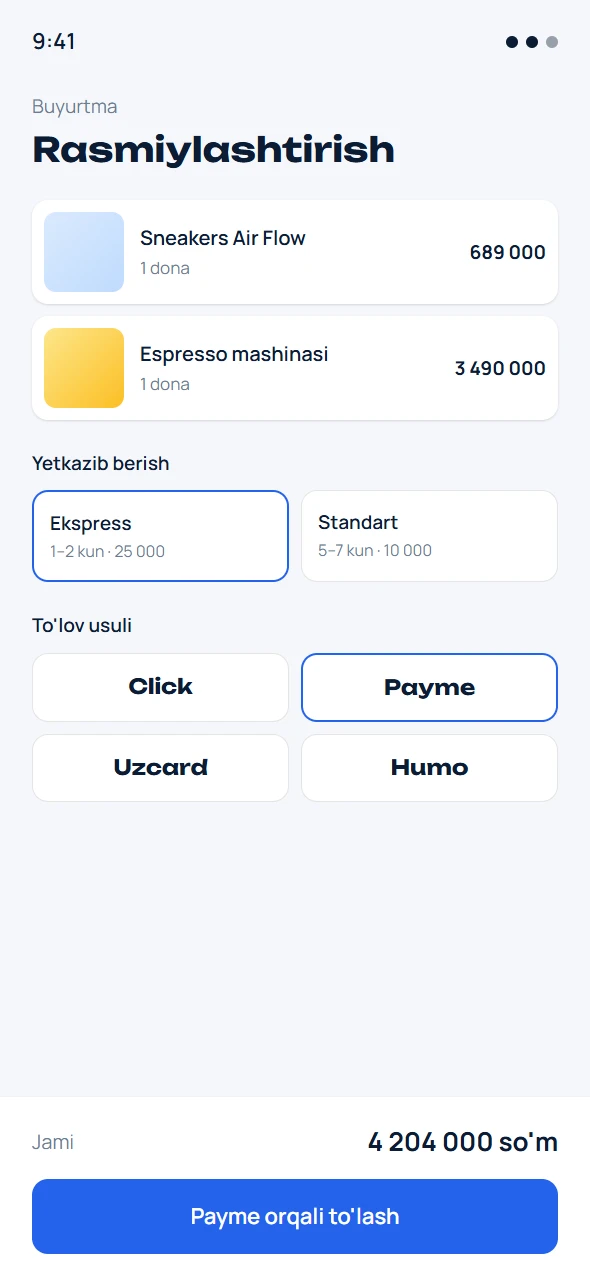
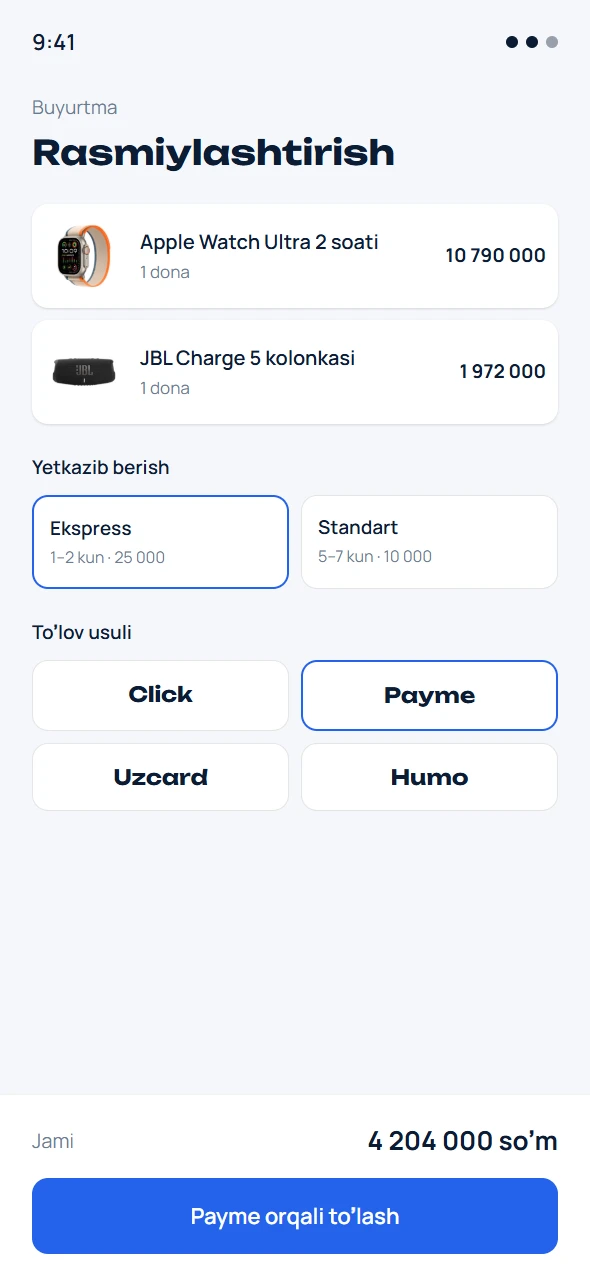
Put real goods on the device screens
The products inside the mock screens were CSS gradients with invented names and
prices. They are now the real thing, taken from the live instance of the
platform, fetch-group.uz, through its public /api/products: six product photos
in public/shop (redrawn to 560px squares on white), with the shop's own names,
categories and prices.

Watches, speakers and headphones on purpose. That shop also sells phones,
laptops and tablets, and those are the very devices these screens are displayed
on — a MacBook selling MacBooks is the "Apple reseller" reading the owner
rejected on 2026-09-07, so the catalogue avoids anything the frame already is.

The rest of the mocks followed: the recent-orders list on the dashboard, the six
rows of the orders table, and the editor, which is now the JBL Charge 5 with its
real specification instead of an espresso machine. Storefront category chips are
the shop's real categories. Both pipelines were re-run afterwards — screens.mjs
for the five captures, render.mjs for the five stills the tiles and the showcase
use — so the 3D devices and the flat renders show the same real catalogue.

Still open, and the owner's call: demoItems in lib/product.ts is untouched, so
the search sample below still offers sneakers, an espresso machine and a scarf.
That mixed catalogue is what carried "any goods can be sold"; the devices now
say "electronics shop". One of the two should move.

Build, lint, reduced motion and focus ring clean; no console errors.
[…]

diff --git a/components/screens/Screens.tsx b/components/screens/Screens.tsx
@@ -6,7 +6,8 @@ import { Mark } from "@/components/brand/Logo";
  * 3D devices wear on their displays and the feature tiles show framed.
  *
  * Phone: 590×1278 (6.7" at half resolution). Laptop: 1600×1000. Tablet: 1024×1366.
- * The demo shop sells a deliberately mixed range, not one brand.
+ * The goods in them are real: photos, names, categories and prices pulled from
+ * the live instance of the platform (fetch-group.uz).
  */
 
 export type ScreenId = "home" | "checkout" | "dashboard" | "orders" | "editor";
@@ -21,17 +22,31 @@ export const SCREEN_SIZES: Record<ScreenId, { w: number; h: number }> = {
 
 const SHOP = "Bahor Market";
 
+/*
+ * Real goods, taken from the live instance of the platform (fetch-group.uz):
+ * its own product photos, names, categories and prices, pulled from
+ * `/api/products`. They used to be CSS gradients with invented names.
+ *
+ * Watches, speakers and headphones on purpose. That shop also sells phones,
+ * laptops and tablets, and those are the very devices these screens are
+ * displayed on — a MacBook selling MacBooks is the "Apple reseller" reading the
+ * owner rejected on 2026-09-07.
+ */
 const goods = [
-  { name: "Sneakers Air Flow", cat: "Poyabzal", price: "689 000", tone: "linear-gradient(135deg,#dbeafe,#bfdbfe)" },
-  { name: "Espresso mashinasi", cat: "Uy texnikasi", price: "3 490 000", tone: "linear-gradient(135deg,#fde68a,#fbbf24)" },
-  { name: "Silk sharf", cat: "Aksessuarlar", price: "245 000", tone: "linear-gradient(135deg,#fbcfe8,#f472b6)" },
-  { name: "Smart soat S9", cat: "Elektronika", price: "1 890 000", tone: "linear-gradient(135deg,#e2e8f0,#94a3b8)" },
-  { name: "Yoga to'plami", cat: "Sport", price: "320 000", tone: "linear-gradient(135deg,#bbf7d0,#4ade80)" },
-  { name: "Parfyum Oud 50 ml", cat: "Go'zallik", price: "560 000", tone: "linear-gradient(135deg,#ddd6fe,#a78bfa)" },
+  { name: "Apple Watch Ultra 2 soati", cat: "Aqlli soatlar", price: "10 790 000", img: "/shop/chasi-apple-watch-ultra-2.webp" },
+  { name: "JBL Charge 5 kolonkasi", cat: "Akustika", price: "1 972 000", img: "/shop/kolonka-jbl-charge-5.webp" },
+  { name: "Apple AirPods Max quloqchini", cat: "Quloqchinlar", price: "6 961 500", img: "/shop/naushniki-apple-airpods-max.webp" },
+  { name: "Apple Watch SE 3 soati", cat: "Aqlli soatlar", price: "3 780 000", img: "/shop/chasi-apple-watch-se-3.webp" },
+  { name: "SONY WH-1000XM5 quloqchini", cat: "Quloqchinlar", price: "3 520 000", img: "/shop/naushniki-sony-wh-1000xm5.webp" },
+  { name: "Yandex Station Lite kolonkasi", cat: "Akustika", price: "840 000", img: "/shop/umnaya-kolonka-yandeks-stantsiya-layt.webp" },
 ];
 
-const Tile = ({ tone, className = "" }: { tone: string; className?: string }) => (
-  <div className={`rounded-xl ${className}`} style={{ background: tone }} />
+/* A plain <img>, not next/image: this route exists only to be photographed by
+   Playwright, and a lazy, srcset-driven image is exactly what a capture can
+   miss. `loading="eager"` for the same reason. */
+const Shot = ({ src, className = "" }: { src: string; className?: string }) => (
+  // eslint-disable-next-line @next/next/no-img-element
+  <img src={src} alt="" loading="eager" decoding="sync" className={`rounded-xl bg-white object-contain ${className}`} />
 );
 
 function PhoneFrame({ children, dark = false }: { children: React.ReactNode; dark?: boolean }) {
@@ -82,7 +97,7 @@ function Home() {
         <span className="shrink-0 rounded-full bg-white px-5 py-2.5 text-[17px] font-semibold text-[#0b1c33]">Koʼrish</span>
       </div>
       <div className="mt-6 flex shrink-0 gap-3 overflow-hidden px-8">
-        {["Hammasi", "Elektronika", "Kiyim", "Go'zallik", "Uy"].map((c, i) => (
+        {["Hammasi", "Aqlli soatlar", "Akustika", "Quloqchinlar", "Planshetlar"].map((c, i) => (
           <span
             key={c}
             className={`shrink-0 rounded-full px-5 py-2.5 text-[18px] font-semibold ${i === 0 ? "bg-[#0b1c33] text-white" : "bg-white text-[#0b1c33]"}`}
@@ -94,7 +109,7 @@ function Home() {
       <div className="mx-8 mt-6 grid min-h-0 flex-1 grid-cols-2 gap-4 overflow-hidden">
         {goods.slice(0, 4).map((g) => (
           <div key={g.name} className="rounded-2xl bg-white p-3 shadow-sm">
-            <Tile tone={g.tone} className="aspect-[5/4]" />
+            <Shot src={g.img} className="aspect-[5/4] w-full" />
             <p className="mt-3 text-[16px] text-[#6b7c93]">{g.cat}</p>
             <p className="text-[20px] font-semibold leading-tight">{g.name}</p>
             <p className="mt-1 text-[19px] font-bold">{g.price} soʼm</p>
@@ -124,7 +139,7 @@ function Checkout() {
       <div className="mx-8 mt-6 space-y-3">
         {goods.slice(0, 2).map((g) => (
           <div key={g.name} className="flex items-center gap-4 rounded-2xl bg-white p-3 shadow-sm">
-            <Tile tone={g.tone} className="h-20 w-20 shrink-0" />
+            <Shot src={g.img} className="h-20 w-20 shrink-0" />
             <div className="min-w-0 flex-1">
               <p className="truncate text-[20px] font-semibold">{g.name}</p>
               <p className="text-[17px] text-[#6b7c93]">1 dona</p>
@@ -254,10 +269,10 @@ function Dashboard() {
           <p className="text-[18px] font-semibold">Soʼnggi buyurtmalar</p>
           <div className="mt-4 space-y-3 text-[16px]">
             {[
-              ["#1042", "Espresso mashinasi", "Kuryerda"],
-              ["#1041", "Sneakers Air Flow", "Yig'ilmoqda"],
-              ["#1040", "Parfyum Oud", "Yetkazildi"],
-              ["#1039", "Smart soat S9", "Yangi"],
+              ["#1042", "JBL Charge 5 kolonkasi", "Kuryerda"],
+              ["#1041", "Apple Watch Ultra 2 soati", "Yigʼilmoqda"],
+              ["#1040", "SONY WH-1000XM5 quloqchini", "Yetkazildi"],
+              ["#1039", "Apple Watch SE 3 soati", "Yangi"],
             ].map(([n, p, s]) => (
               <div key={n} className="flex items-center justify-between rounded-xl bg-[#f3f5f9] px-4 py-3">
                 <span className="text-[#6b7c93]">{n}</span>
@@ -274,12 +289,12 @@ function Dashboard() {
 
 function Orders() {
   const rows = [
-    ["#1042", "Madina R.", "Espresso mashinasi", "Payme", "3 490 000", "Kuryerda", "#dbeafe", "#1d4ed8"],
-    ["#1041", "Jasur T.", "Sneakers Air Flow ×2", "Click", "1 378 000", "Yig'ilmoqda", "#fef3c7", "#b45309"],
-    ["#1040", "Nilufar A.", "Parfyum Oud 50 ml", "Uzcard", "560 000", "Yetkazildi", "#dcfce7", "#15803d"],
-    ["#1039", "Sardor K.", "Smart soat S9", "Humo", "1 890 000", "Yangi", "#ede9fe", "#6d28d9"],
-    ["#1038", "Kamola Y.", "Yoga to'plami", "Payme", "320 000", "Yetkazildi", "#dcfce7", "#15803d"],
-    ["#1037", "Bekzod M.", "Silk sharf ×3", "Click", "735 000", "Kuryerda", "#dbeafe", "#1d4ed8"],
+    ["#1042", "Madina R.", "JBL Charge 5 kolonkasi", "Payme", "1 972 000", "Kuryerda", "#dbeafe", "#1d4ed8"],
+    ["#1041", "Jasur T.", "Apple Watch Ultra 2 soati", "Click", "10 790 000", "Yig'ilmoqda", "#fef3c7", "#b45309"],
+    ["#1040", "Nilufar A.", "SONY WH-1000XM5 quloqchini", "Uzcard", "3 520 000", "Yetkazildi", "#dcfce7", "#15803d"],
+    ["#1039", "Sardor K.", "Apple Watch SE 3 soati", "Humo", "3 780 000", "Yangi", "#ede9fe", "#6d28d9"],
+    ["#1038", "Kamola Y.", "Yandex Station Lite kolonkasi", "Payme", "840 000", "Yetkazildi", "#dcfce7", "#15803d"],
+    ["#1037", "Bekzod M.", "Apple AirPods Max quloqchini", "Click", "6 961 500", "Kuryerda", "#dbeafe", "#1d4ed8"],
   ];
   return (
     <LaptopFrame active="Buyurtmalar">
@@ -327,7 +342,7 @@ function Editor() {
         <div>
           <p className="text-[17px] text-[#6b7c93]">Mahsulotlar · tahrirlash</p>
           <p className="text-[34px] font-bold" style={{ fontFamily: "var(--font-unbounded), Unbounded, sans-serif" }}>
-            Espresso mashinasi
+            JBL Charge 5 kolonkasi
           </p>
         </div>
         <div className="rounded-full bg-[#2563eb] px-6 py-3 text-[17px] font-semibold text-white">Saqlash</div>
@@ -337,18 +352,19 @@ function Editor() {
           <div className="flex items-center justify-between">
             <p className="text-[16px] font-semibold text-[#6b7c93]">Nomi (RU)</p>
           </div>
-          <p className="mt-2 rounded-xl bg-[#f3f5f9] px-4 py-3 text-[19px]">Кофемашина эспрессо Pro</p>
+          <p className="mt-2 rounded-xl bg-[#f3f5f9] px-4 py-3 text-[19px]">Колонка JBL Charge 5</p>
           <div className="mt-5 flex items-center justify-between">
             <p className="text-[16px] font-semibold text-[#6b7c93]">Nomi (UZ)</p>
             <span className="rounded-full bg-[#ede9fe] px-3 py-1 text-[14px] font-semibold text-[#6d28d9]">AI tarjima</span>
           </div>
-          <p className="mt-2 rounded-xl bg-[#f3f5f9] px-4 py-3 text-[19px]">Espresso kofe mashinasi Pro</p>
+          <p className="mt-2 rounded-xl bg-[#f3f5f9] px-4 py-3 text-[19px]">JBL Charge 5 kolonkasi</p>
         </div>
         <div className="rounded-2xl bg-white p-6 shadow-sm">
           <p className="text-[16px] font-semibold text-[#6b7c93]">Rasmlar</p>
+          {/* one real shot and an empty slot: the shop ships one photo per
+              product, and inventing a second angle would be inventing data */}
           <div className="mt-3 grid grid-cols-3 gap-3">
-            <Tile tone="linear-gradient(135deg,#fde68a,#fbbf24)" className="aspect-square" />
-            <Tile tone="linear-gradient(135deg,#fef3c7,#fde68a)" className="aspect-square" />
+            <Shot src="/shop/kolonka-jbl-charge-5.webp" className="aspect-square w-full ring-1 ring-black/5" />
             <div className="grid aspect-square place-items-center rounded-xl border-2 border-dashed border-black/15 text-[30px] text-[#6b7c93]">+</div>
           </div>
         </div>
@@ -359,13 +375,13 @@ function Editor() {
           <span className="rounded-full bg-[#ede9fe] px-3 py-1 text-[14px] font-semibold text-[#6d28d9]">SEO yaratish</span>
         </div>
         <p className="mt-3 text-[18px] leading-relaxed text-[#4d5d73]">
-          19 bar bosim, 1,5 l suv idishi, sut koʼpirtirgich. Uy va kichik ofis uchun. Kafolat 12 oy, yetkazib berish butun Oʼzbekiston boʼylab.
+          40 W quvvat, 20 soatgacha ishlash, IP67 suv va changdan himoya, powerbank rejimi. Kafolat 12 oy, yetkazib berish butun Oʼzbekiston boʼylab.
         </p>
       </div>
       <div className="mt-5 rounded-2xl bg-white p-6 shadow-sm">
         <p className="text-[16px] font-semibold text-[#6b7c93]">Atributlar</p>
         <div className="mt-3 flex flex-wrap gap-2 text-[17px]">
-          {["Bosim: 19 bar", "Hajm: 1,5 l", "Quvvat: 1350 W", "Rang: Kumush", "Kafolat: 12 oy"].map((a) => (
+          {["Quvvat: 40 W", "Ishlash: 20 soat", "Himoya: IP67", "Bluetooth: 5.1", "Rang: Qora"].map((a) => (
             <span key={a} className="rounded-full bg-[#f3f5f9] px-4 py-2">
               {a}
             </span>

diff --git a/DESIGN.md b/DESIGN.md
@@ -27,9 +27,10 @@ owner to ask for a demo.
 - Calls to action: **"Demo so'rash"** goes to `links.contact`, **"Namuna
   do'kon"** to `links.demo` (`lib/site.ts`). Both are placeholders until
   Avenir Soft names a demo-request page and a dedicated demo shop.
-- **No prices anywhere** (owner decision). The FAQ answers "Narxi qancha?"
-  without a number. The prices visible inside the platform screens belong to
-  the fictional demo shop "Bahor Market" and are part of the UI mock.
+- **No prices anywhere** (owner decision) — for the *platform*. The FAQ answers
+  "Narxi qancha?" without a number. The prices visible inside the platform
+  screens are goods prices, and since 2026-09-08 they are the real ones from
+  `fetch-group.uz` (see "Screens on the devices").
 - No Telegram bot for buying, dropdown language menu, a
   loading screen that waits for the models (all owner decisions).
 - Owner corrections, 2026-09-08: the header never hides (the old
@@ -302,6 +303,21 @@ soft shadow into the light ones. Both stages hold 60 fps in the test browser.
   for the demo shop "Bahor Market": `home`, `checkout` (phone, 590×1278),
   `dashboard`, `orders` (laptop, 1600×1000), `editor` (tablet, 1024×1366).
   They use the landing's own fonts and palette so they read as one product.
+- **The goods in them are real** (owner, 2026-09-08: "devicelardagi rasmlarni
+  hammasi haqiqiy rasm bo'lishi kerak, saytdan olib qo'y"). Photos, names,
+  categories and prices come from the live instance of the platform,
+  `fetch-group.uz`, via its public `/api/products`; the six photos live in
+  `public/shop/`, redrawn to 560px squares on white by
+  `tools/pw/fg-download.mjs`. They were CSS gradients with invented names.
+  **Watches, speakers and headphones on purpose:** that shop also sells phones,
+  laptops and tablets, and those are the very devices these screens are shown
+  on — a MacBook selling MacBooks is the "Apple reseller" reading the owner
+  rejected on 2026-09-07. The order lists in `dashboard`/`orders` and the
+  product in `editor` (JBL Charge 5, with its real specs) were changed with them.
+  **Still open:** `demoItems` in `lib/product.ts` — the search sample — is still
+  the mixed catalogue (sneakers, espresso machine, scarf), which is what carried
+  the "any goods can be sold" message. The devices now say "electronics shop"
+  and the search says "anything". One of the two should move.
 - `public/screens/*.webp` are captures of those mocks, made with
   `C:\Users\mamut\tools\pw\screens.mjs` against the dev route `/dev/screens`
   (blocked in production). Regenerate them after editing the mocks.
